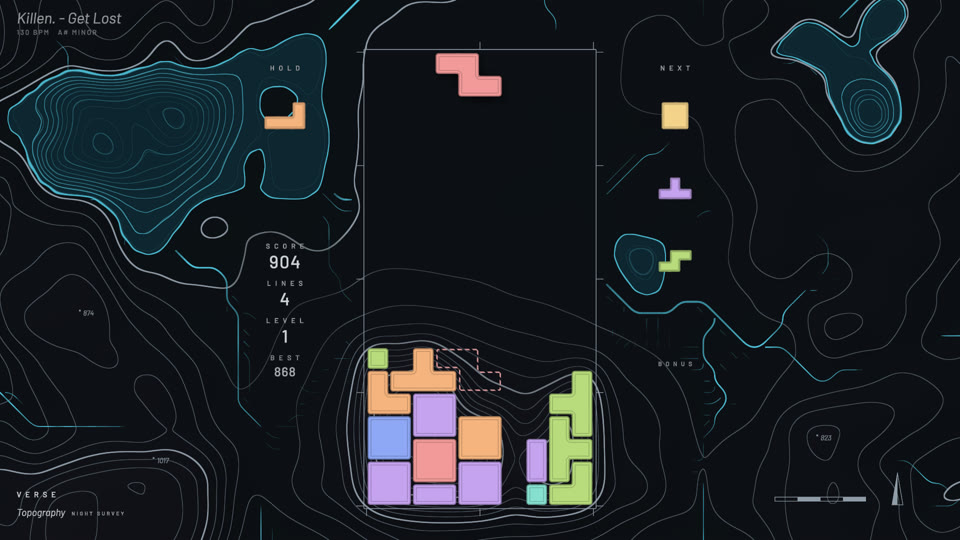
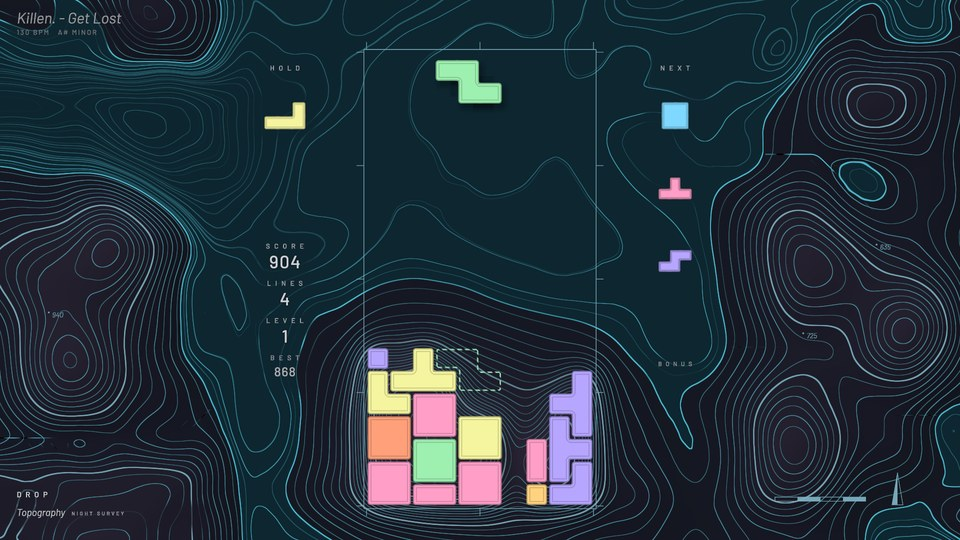
README: TOPOGRAPHY gallery image in a drop (NIGHT SURVEY) and caption
Claude-Session: https://claude.ai/code/session_01DBPtRFs6M8Q4o53Qj6BCRE

diff --git a/README.md b/README.md
@@ -54,7 +54,7 @@ song, and songs change universe with a transition on the beat. Twenty universes 
 </tr>
 <tr>
 <td><img src="docs/universes/city.jpg"><br><b>CITY</b>: a tower in a dark 3D night city, its lit rooms the blocks</td>
-<td><img src="docs/universes/topography.jpg"><br><b>TOPOGRAPHY</b>: a contour map whose terrain is the stack, rivers in the rain, a flood on the drop</td>
+<td><img src="docs/universes/topography.jpg"><br><b>TOPOGRAPHY</b>: a contour map whose terrain is the stack, a slowly shifting land; rivers in the rain, a flood and living peaks on the drop</td>
 </tr>
 </table>
 
